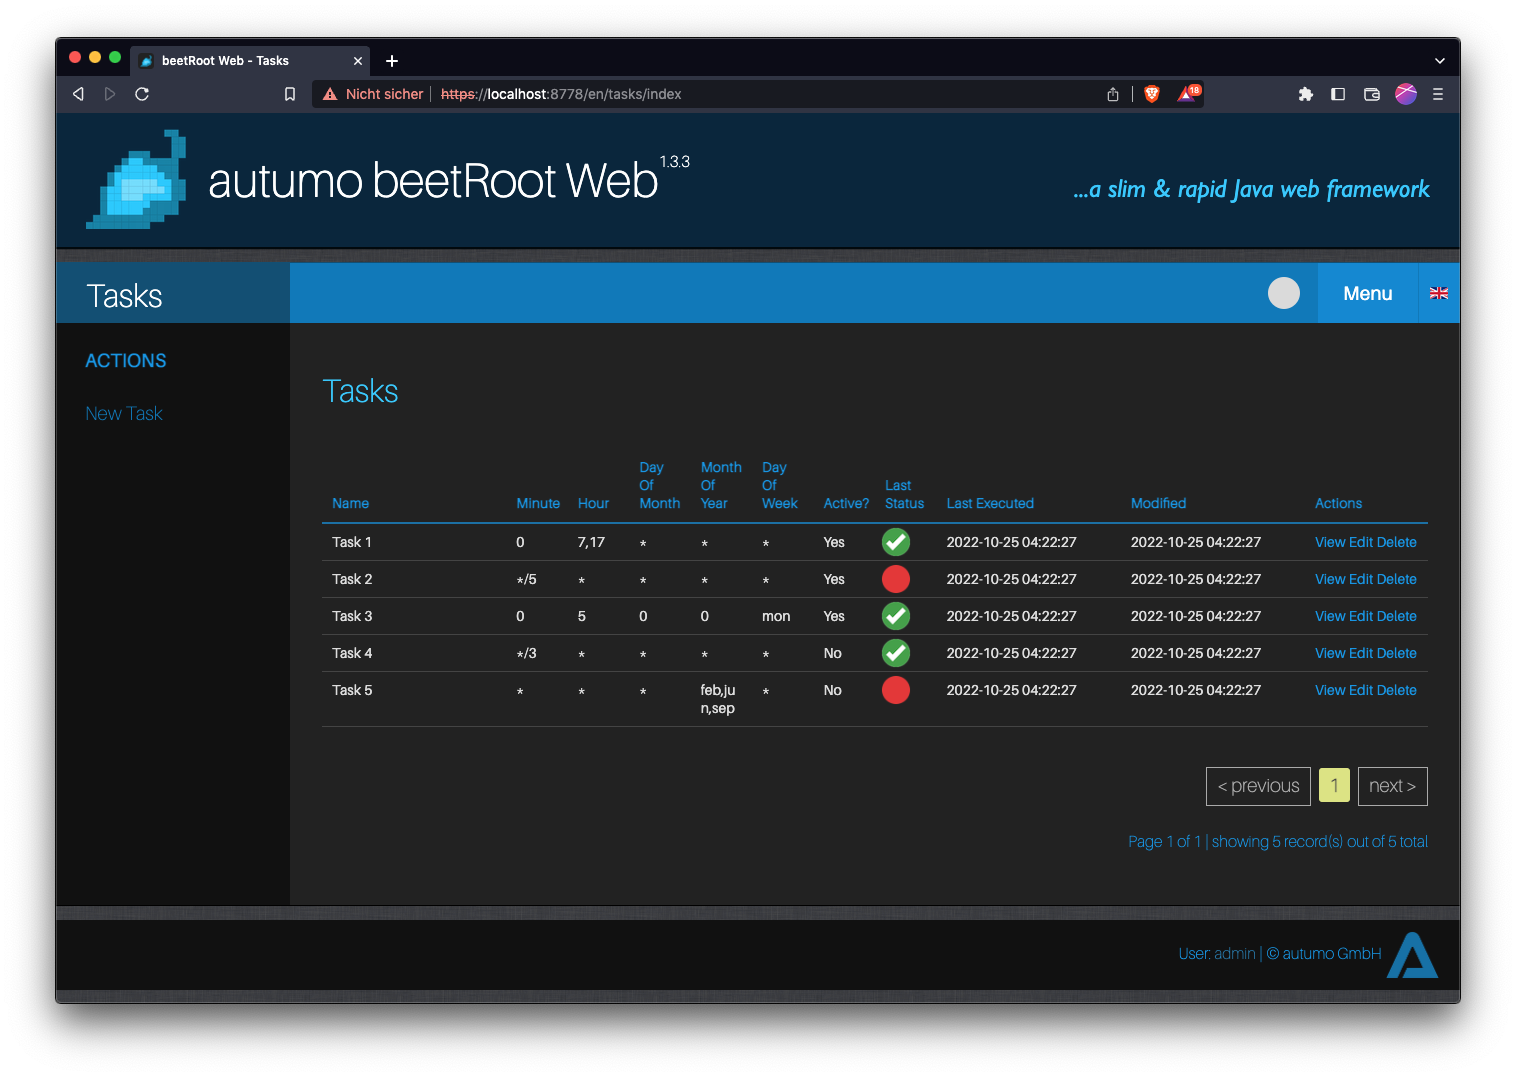
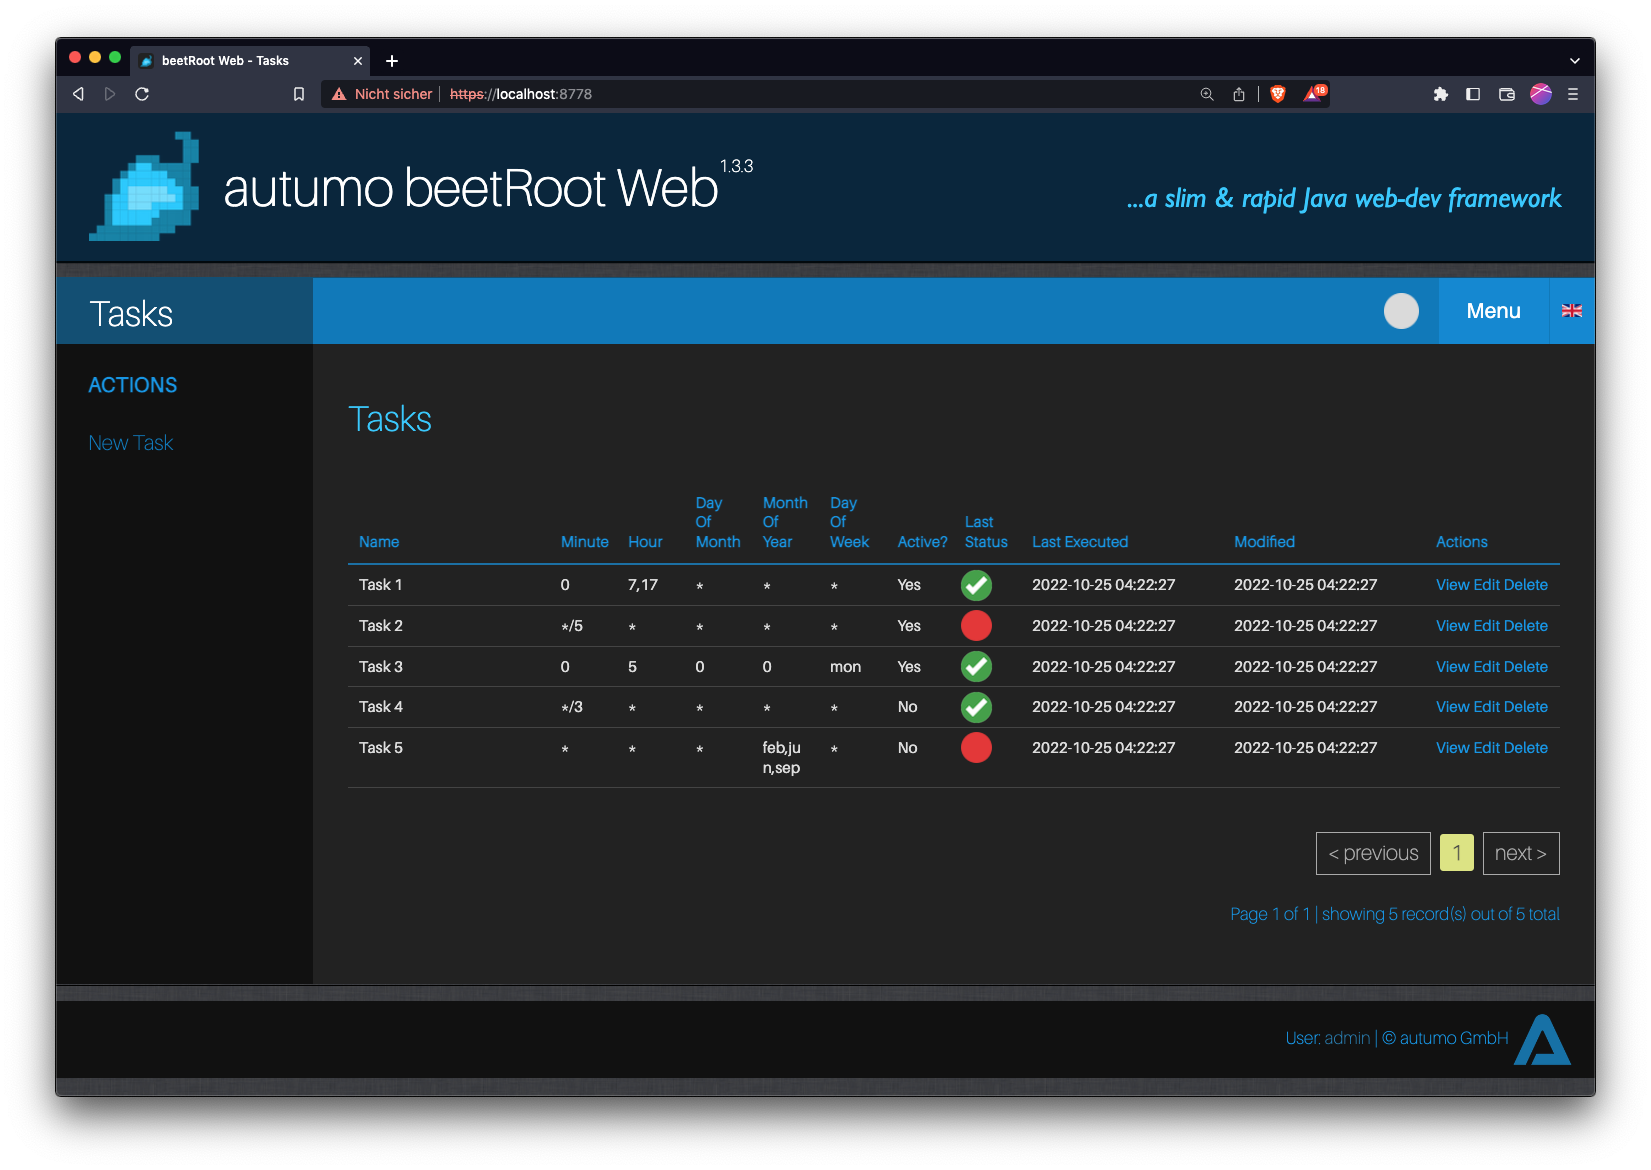
Update screen

diff --git a/autumo-beetroot/web/html/blocks/header.html b/autumo-beetroot/web/html/blocks/header.html
@@ -5,6 +5,6 @@
 			<div class="mainversion">1.3.3</div>
 		</div>
 		<div class="title-right">
-			<div class="mainslogan">...a slim &amp; rapid Java web framework</div>
+			<div class="mainslogan">...a slim &amp; rapid Java web-dev framework</div>
 		</div>
 	</header>
